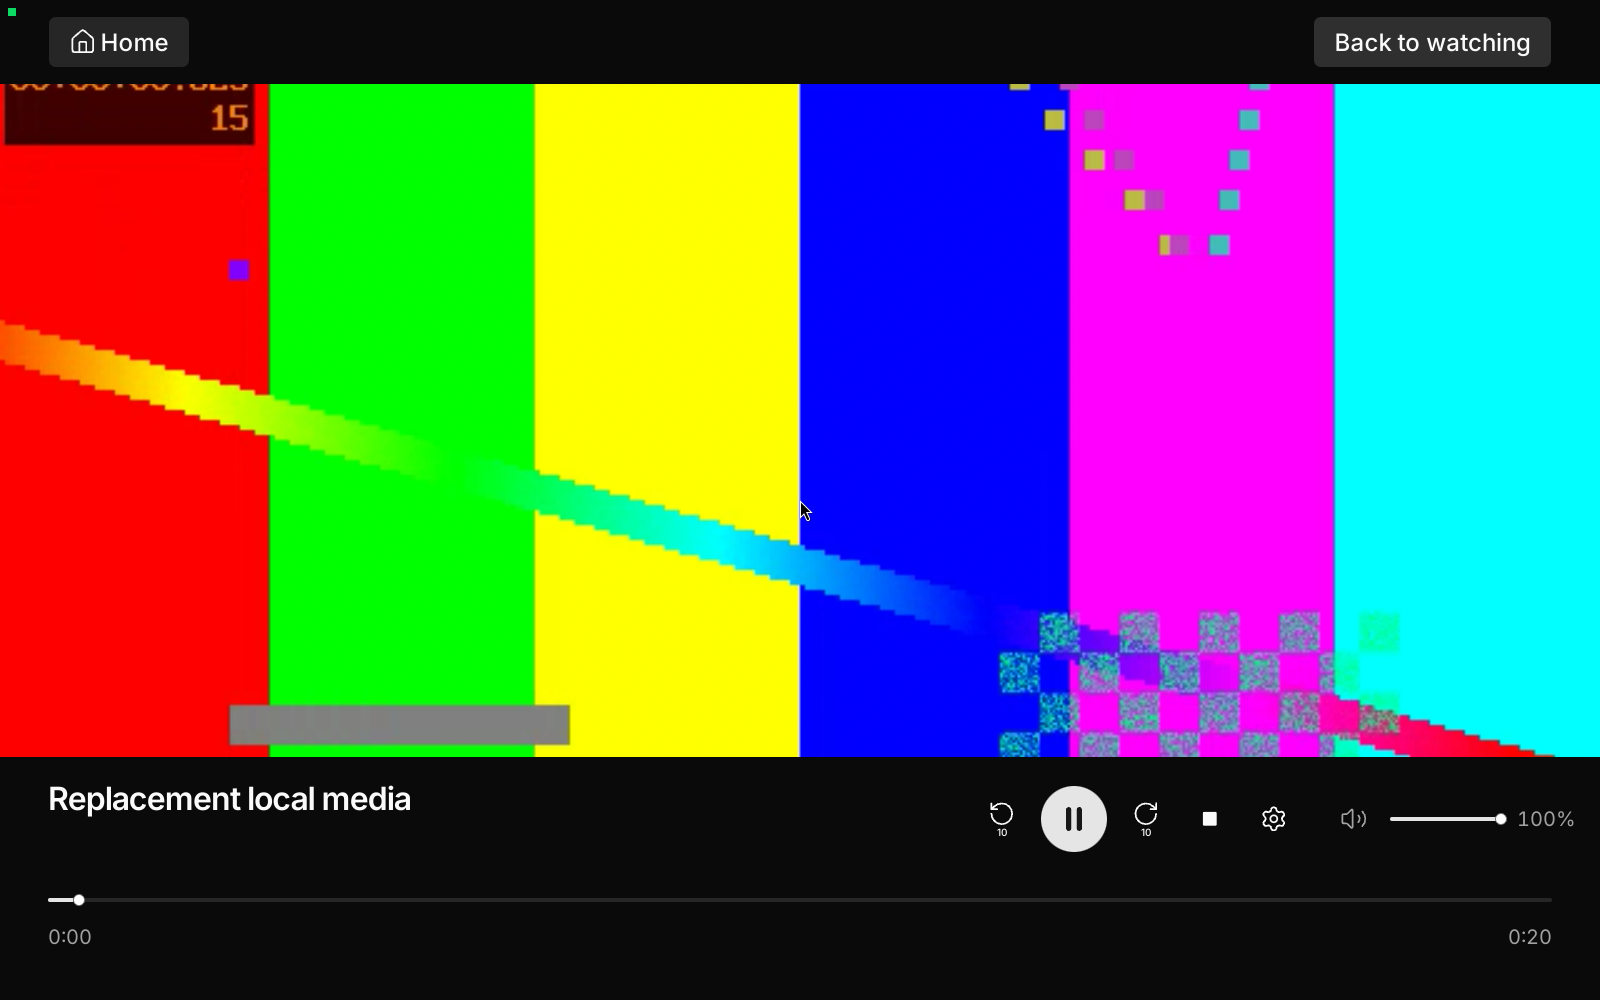
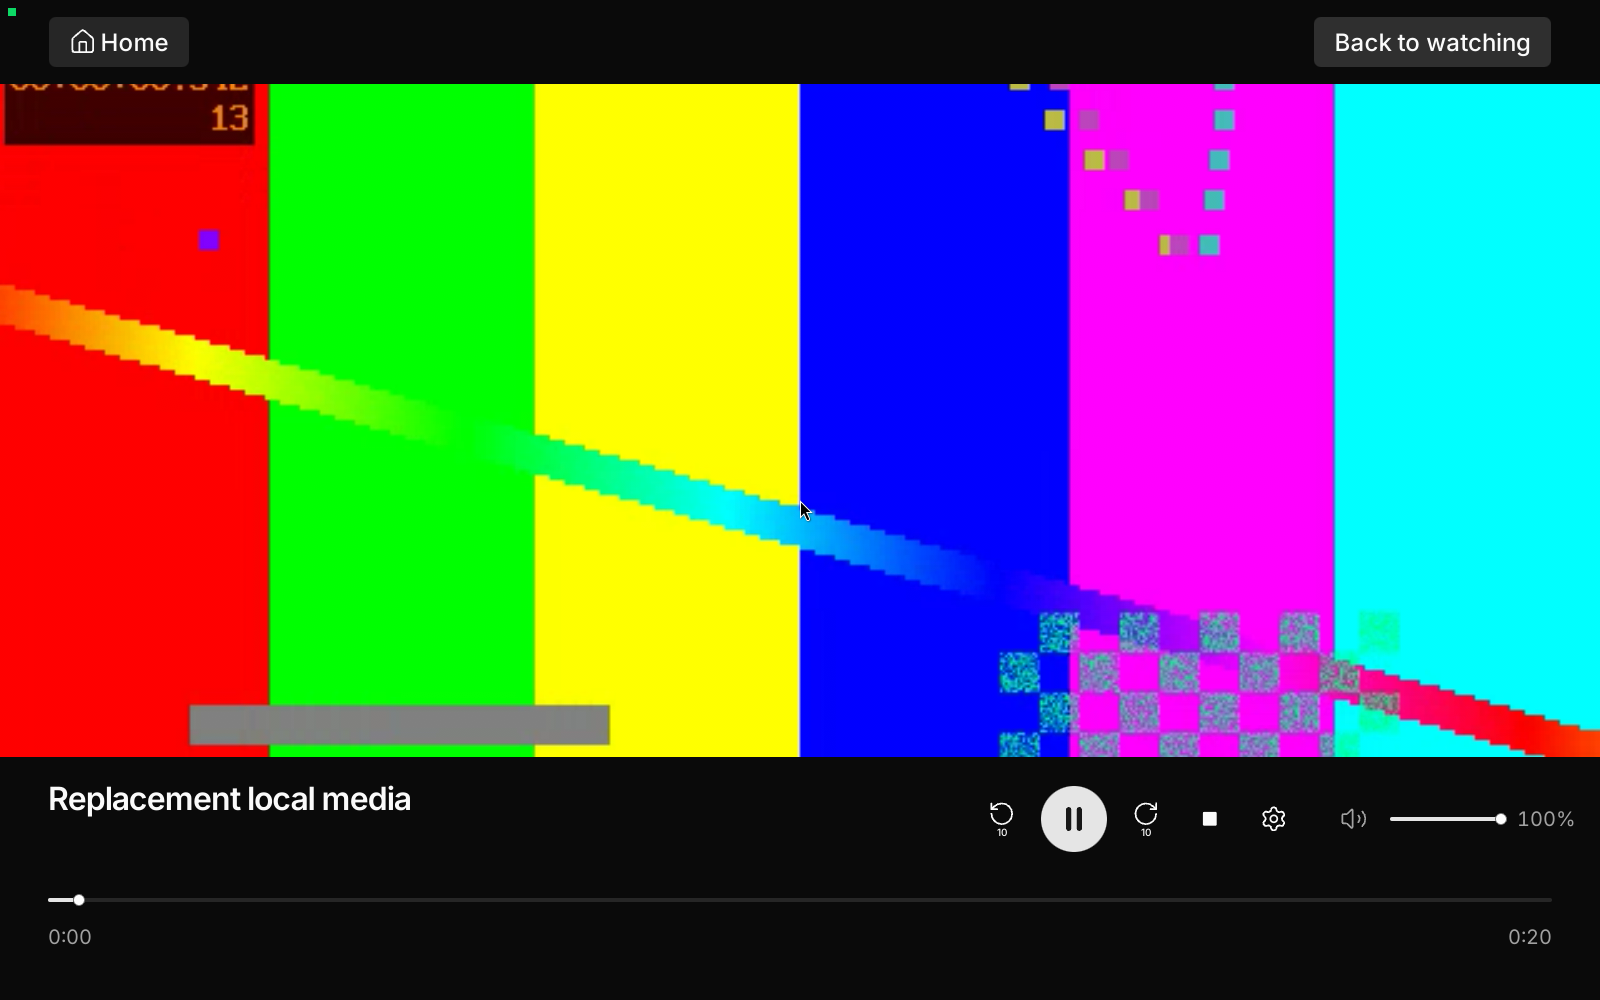
Refresh exact Linux mpv qualification evidence

diff --git a/docs/qualification/gtk-mpv-482/README.md b/docs/qualification/gtk-mpv-482/README.md
@@ -1,16 +1,16 @@
 # Linux mpv render-thread qualification
 
-The compiled Couch app at `fea5695449379302c99932678fb993fa8b4f941b` passed `TAURI_VIDEO_TELEMETRY=1 bun run test:linux --mpv-threading` on Ubuntu 24.04 ARM64 under Docker, Xvfb and a PulseAudio null sink. The run built the Tauri app and Bun sidecar from that immutable revision. The ordinary Bun checks, Rust native tests and paired-controller smoke also passed.
+The compiled Couch app at `330e4fcf8514922f2f1a015ec3b37778a81f664b` passed `TAURI_VIDEO_TELEMETRY=1 bun run test:linux --mpv-threading` on Ubuntu 24.04 ARM64 under Docker, Xvfb and a PulseAudio null sink. The run built the Tauri app and Bun sidecar from that immutable revision. The ordinary Bun checks, Rust native tests and paired-controller smoke also passed.
 
 The paired controller played a generated 640 x 360 video, sought three times, collected diagnostics while playback advanced, replaced it with a second queue entry, then stopped. A stale seek after Stop did not revive the retired playback. The queue remained stopped across app restart. The two X11 captures show [initial video pixels](initial-video.png) and [replacement video pixels](replacement-video.png) inside the GtkGLArea with Couch controls visible after replacement.
 
 | Operation | Paired-controller acknowledgement |
 | --- | ---: |
-| Seek to 4, 8 and 2 seconds | 0.45, 0.33 and 0.33 ms |
-| Replacement Play | 9.54 ms |
-| Stop | 85.17 ms |
-| Diagnostics export HTTP request | 500.11 ms |
+| Seek to 4, 8 and 2 seconds | 0.36, 0.31 and 0.29 ms |
+| Replacement Play | 3.12 ms |
+| Stop | 19.25 ms |
+| Diagnostics export HTTP request | 430.59 ms |
 
-The [machine-readable receipt](receipt.json) records each sample. Render telemetry rose from 3 to 69 presented frames, reached 25.43 measured FPS and reported zero dropped frames. With libmpv warning events subscribed and the native log truncated before launch, no `mpv_render_context_render() not being called or stuck` message appeared. The pixel assertions passed for both captures.
+The [machine-readable receipt](receipt.json) records each sample. Render telemetry rose from 3 to 61 presented frames, reached 25.52 measured FPS and reported zero dropped frames. With libmpv warning events subscribed and the native log truncated before launch, no `mpv_render_context_render() not being called or stuck` message appeared. The pixel assertions passed for both captures.
 
 This is actual GtkGLArea/libmpv playback with software rendering. It does not establish physical TV, speaker, Wayland or hardware-decoder behavior.
